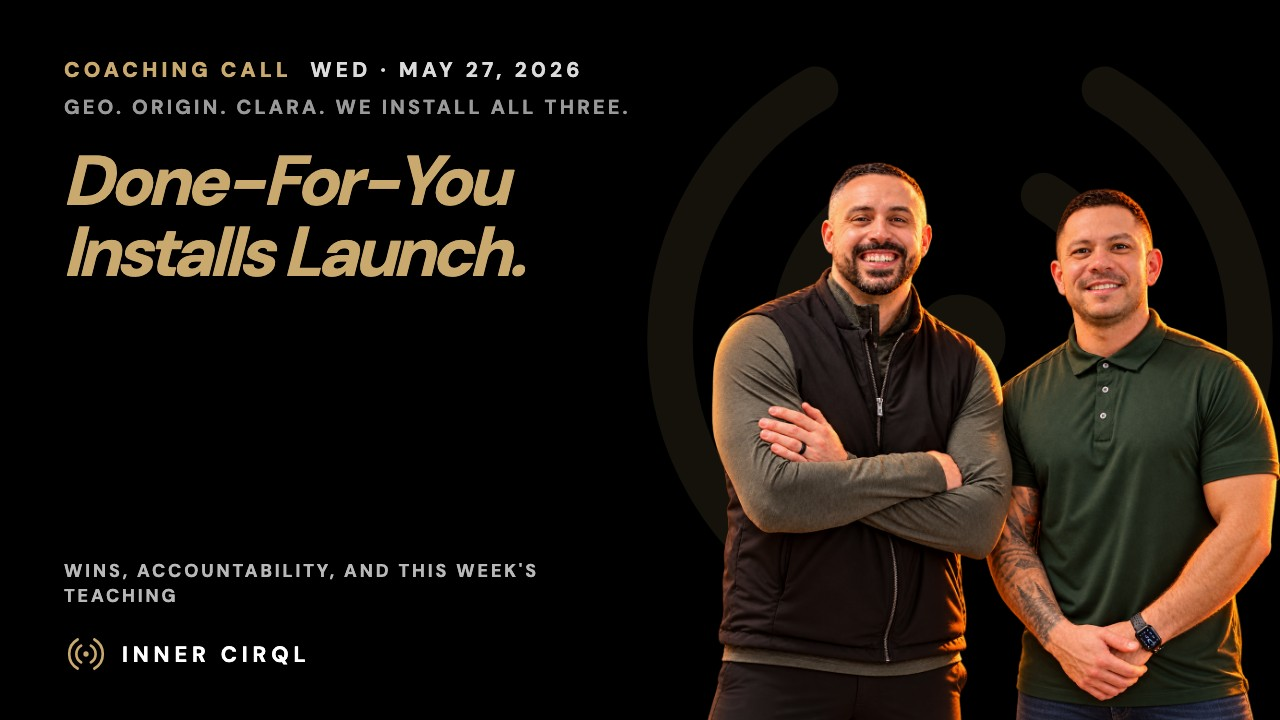
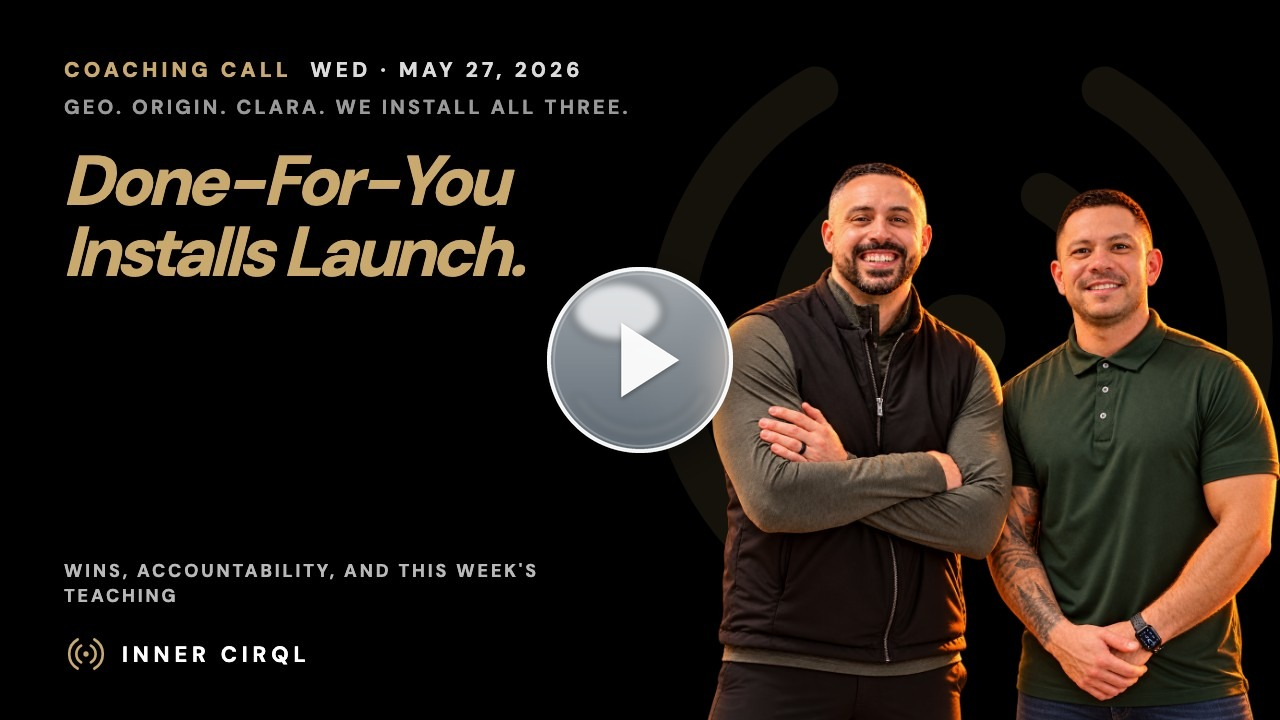
Training: retitle May 27 coaching call (Done-For-You Installs Launch.) + thumbnail

Changed region(s): [[0.4062, 0.3667, 0.5938, 0.6417]]

diff --git a/training/index.html b/training/index.html
@@ -94,6 +94,26 @@ window.LIBRARY = {
   ],
   "items": [
     {
+      "id": "v-2026-05-27",
+      "date": "2026-05-27",
+      "dateLabel": "May 27, 2026",
+      "series": "dfy",
+      "week": 1,
+      "name": "The Installs Launch.",
+      "title": "Done-For-You Installs Launch.",
+      "headline": [
+        "Done-For-You",
+        "Installs Launch."
+      ],
+      "sub": "GEO. Origin. Clara. We install all three.",
+      "desc": "Week one: the Done-For-You Installs launch of GEO, Origin, and Clara. Wins, accountability, and the teaching segment, edited replay.",
+      "href": "https://coach.theinnercirql.com/",
+      "pdf": null,
+      "slides": null,
+      "embed": "https://www.youtube.com/embed/eMiOeAI9R4w?rel=0&modestbranding=1",
+      "thumb": "/assets/thumbs/may-27-call.jpg?v=29920120"
+    },
+    {
       "id": "v-2026-11-18",
       "date": "2026-11-18",
       "dateLabel": "November 18, 2026",
@@ -532,26 +552,6 @@ window.LIBRARY = {
       "slides": null,
       "embed": "https://www.youtube.com/embed/pFWM0IjAvOE?rel=0&modestbranding=1",
       "thumb": "/assets/thumbs/jul-1-call.jpg?v=1"
-    },
-    {
-      "id": "v-2026-05-27",
-      "date": "2026-05-27",
-      "dateLabel": "May 27, 2026",
-      "series": "dfy",
-      "week": 1,
-      "name": "The Installs Launch.",
-      "title": "Done-For-You Installs Launch.",
-      "headline": [
-        "Done-For-You",
-        "Installs Launch."
-      ],
-      "sub": "GEO. Origin. Clara. We install all three.",
-      "desc": "Week one: the Done-For-You Installs launch of GEO, Origin, and Clara. Wins, accountability, and the teaching segment, edited replay.",
-      "href": "https://coach.theinnercirql.com/",
-      "pdf": null,
-      "slides": null,
-      "embed": "https://www.youtube.com/embed/eMiOeAI9R4w?rel=0&modestbranding=1",
-      "thumb": "/assets/thumbs/may-27-call.jpg?v=1"
     },
     {
       "id": "t-become-a-listing-magnet",
